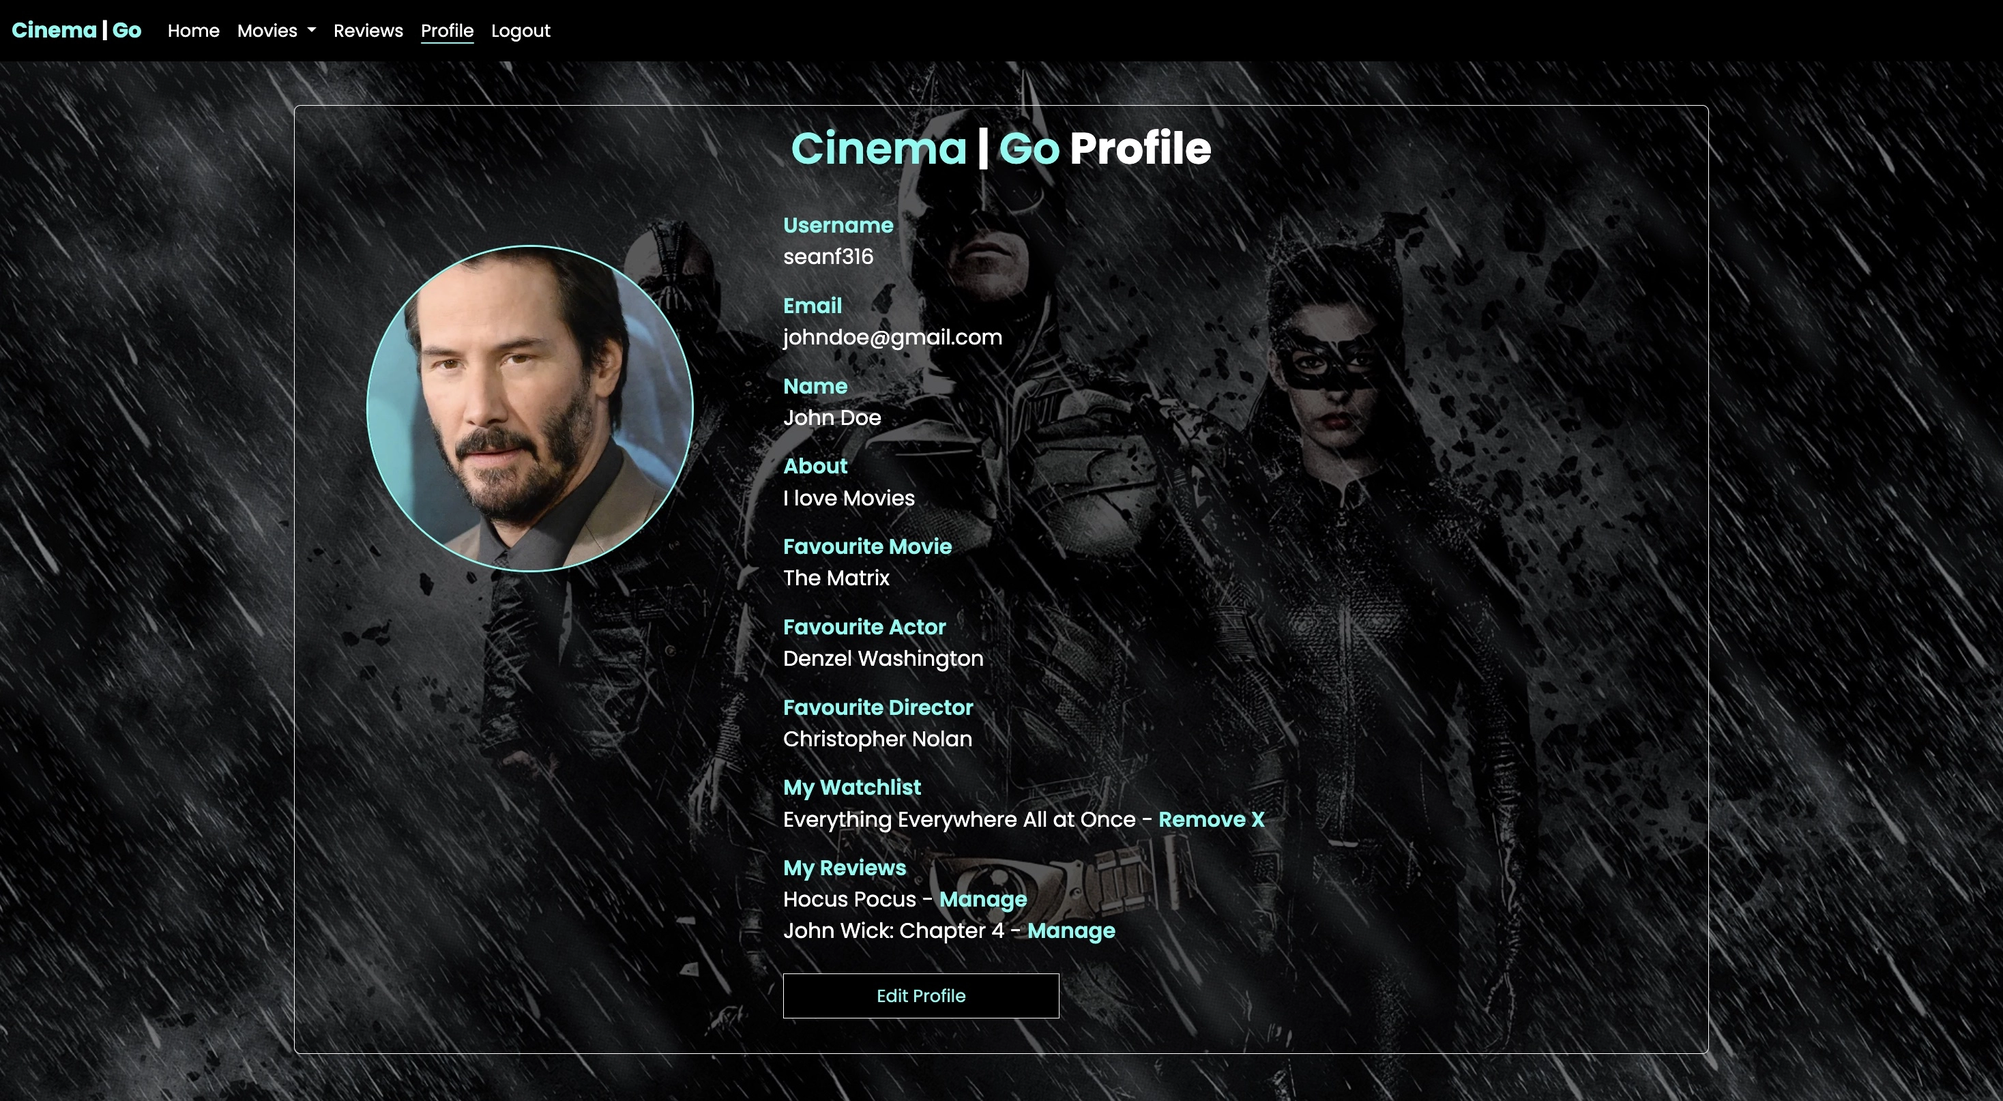
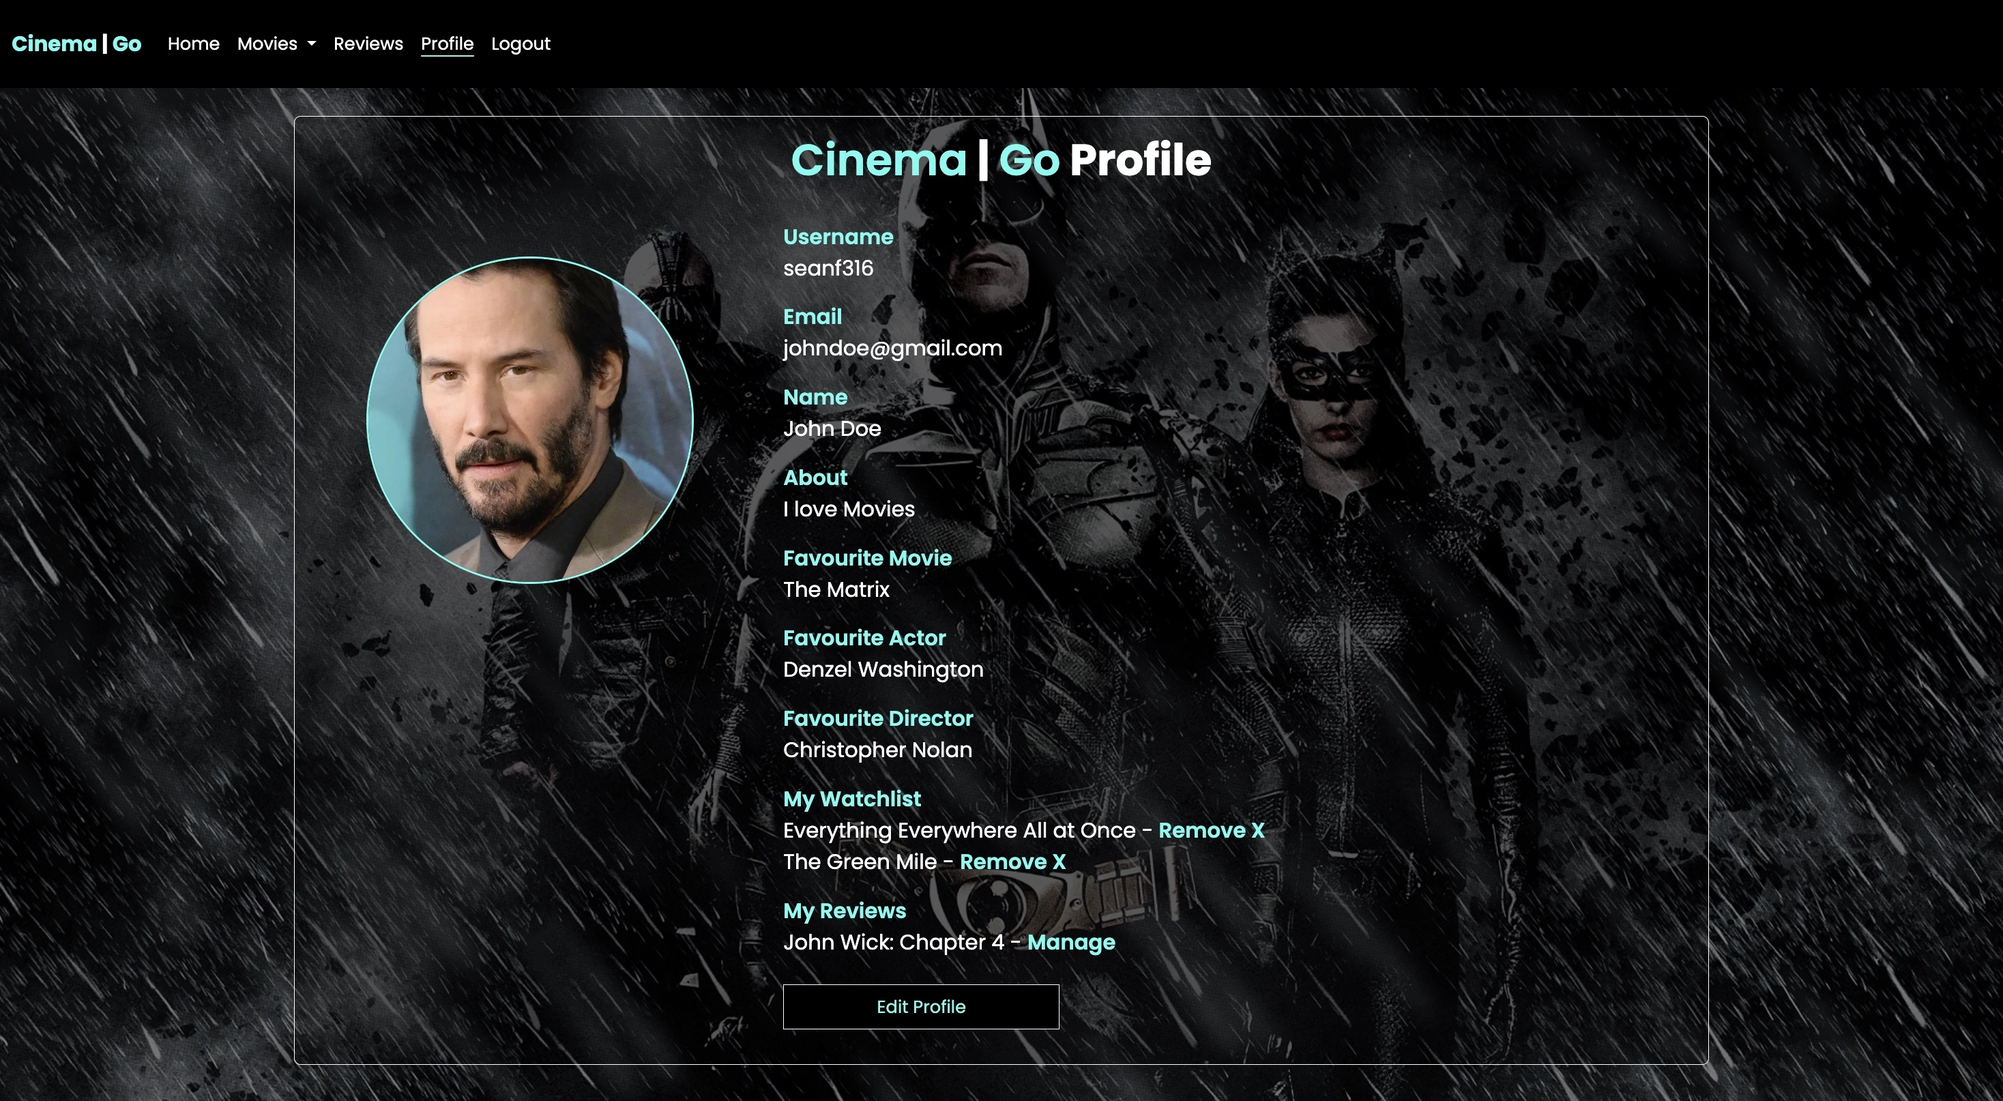
Feature complete and Surface Plane added

diff --git a/README.md b/README.md
@@ -284,14 +284,14 @@ Entity relationship diagram was created using [DBeaver](https://dbeaver.io/) and
 
 Views were secured where needed using the Django decorator @login_required. Access to the views using the @login_decorator can only be accessed by registered users. This means that if a user tries to access a view that is decorated with @login_required, but they are not currently logged in, they will be redirected to the login page instead.
 
-Environment variables were stored in an env.py for local development for security purposes to ensure no secret keys, api keys or sensitive information was added the the repository. In production, these variables were added to the heroku config vars within the project.
+Environment variables were stored in an env.py for local development for security purposes to ensure no secret keys, API keys, or sensitive information was added to the repository. In production, these variables were added to the Heroku config vars within the project.
 
 ## **The Scope Plane**
 
-* Responsive Design - Site should be fully functional on all devices from 320px up
+* Responsive Design - The site should be fully functional on all devices from 320px up
 * Hamburger menu for mobile devices
-* Ability to perform CRUD functionality on Profile, Reviews and Comments
-* Restricted role based features such as Reviewing/Commenting, viewing Movie Details and editing Profile
+* Ability to perform CRUD functionality on Profiles, Reviews, and Comments
+* Restricted role-based features such as Reviewing/Commenting, viewing Movie Details, and editing Profile
 * Home page describing the site and links to features for registered users
 
 ## **The Structure Plane**
@@ -301,15 +301,13 @@ Environment variables were stored in an env.py for local development for securit
 As a User I would like to view the site on my different devices so that I can view the site on the go
 `
 
-Implementation:
-
 **Navbar**
 
 `
 As a User I want to see a clear way of navigating the site so that I can find the information relative to my needs
 `
 
-The Navbar contains links for Home, a Movies dropdown containing Search/Trending/TopRated, Reviews, Profile and has allauth options.
+The Navbar contains links for Home, a Movies dropdown containing Search/Trending/TopRated, Reviews, Profile, and allauth options.
 
 The following navigation items are available on all pages:
   * Home -> index.html - Visible to all
@@ -336,13 +334,13 @@ The navigation menu is displayed on all pages and drops down into a hamburger me
 As a User I want to be able to get in touch with the Developer so that I can enquire about issues/suggestions I may have
 `
 
-The footer is placed at the bottom of the page. It social media links displayed with icons provided by Font Awesome. There is also a small portion of text for the Copyright/Disclaimer. This is where the user can click on a social media link and reach out to the developer for news and updates. A link to the developer's Github repository is provided and displayed using the Font Awesone Github icon. These icons have aria-labels added to ensure users with assistive screen reading technology know what the purpose of the links are for. They also open in new tabs as they lead users away from the site.
+The footer is placed at the bottom of the page. The social media links are displayed with icons provided by Font Awesome. There is also a small portion of text for the Copyright/Disclaimer. This is where the user can click on a social media link and reach out to the developer for news and updates. A link to the developer's Github repository is provided and displayed using the Font Awesome Github icon. These icons have aria labels added to ensure users with assistive screen reading technology know the purpose of the links. They also open new tabs as they lead users away from the site.
 
 ![Footer Desktop](/docs/readme_screenshots/desktop_footer.webp)
 
 **Homepage**
 
-There are two variations of the Home page that changes based off User login/registration. Users that have not signed up will be met with a welcome message and some information about the site. Details of features available to registered Users are shown and a Sign Up button is provided. The site Hero image (Lego Movie) is also provided.
+There are two variations of the Home page that change based on User login/registration. Users that have not signed up will be met with a welcome message and some information about the site. Details of features available to registered Users are shown and a Sign-Up button is provided. The site Hero image (Lego Movie) is also provided.
 
 Users that have registered and logged in will be met with a similar layout but this time there will be buttons linking the user to various Movie features to get started.
 
@@ -355,7 +353,7 @@ Users that have registered and logged in will be met with a similar layout but t
 As a User I want to have a section where I can search for a Movie so that I can easily find the Movie I want to review
 `
 
-The Movie Search page has a similar layout to the Home page as it includes the hero image but this time a search input is provided and and search button to execute the users Movie search. The search feature works in tandem with the TMDB and makes an API based of the query the user enters.
+The Movie Search page has a similar layout to the Home page as it includes the hero image but this time a search input is provided and a search button to execute the users' Movie search. The search feature works in tandem with the TMDB and makes an API based on the query the user enters.
 
 ![Search Desktop](/docs/readme_screenshots/desktop_search.webp)
 
@@ -365,9 +363,9 @@ The Movie Search page has a similar layout to the Home page as it includes the h
 As a Developer I can create the Movie Search Results template so that the User has a clear display of the results from their search
 `
 
-The Search Results page is displayed with the users Movie search query at the top of the page and for each Movie recieved in the results of the API call a card is generated containing the Movie backdrop image, the title of the movie and a "View Movie" button. If a backdrop image is not available for Movies in the results a default image has been provided as backup. I have set the results to display 12 movies per page, this was a design choice to have an even laylout across devices. Prev/Next buttons are displayed at the bottom of the page for pagination with the views.
+The Search Results page is displayed with the users' Movie search query at the top of the page and for each Movie received in the results of the API call a card is generated containing the Movie backdrop image, the title of the movie, and a "View Movie" button. If a backdrop image is not available for Movies in the results a default image has been provided as backup. I have set the results to display 12 movies per page, this was a design choice to have an even layout across devices. Prev/Next buttons are displayed at the bottom of the page for pagination with the views.
 
-In the occurrence were no results for the query are available a message will be displayed to the user along with a button linking the user back to the Movie Search page.
+In the occurrence where no results for the query are available a message will be displayed to the user along with a button linking the user back to the Movie Search page.
 
 ![Search Results Desktop 1](/docs/readme_screenshots/desktop_searchresults1.webp)
 ![Search Results Desktop 2](/docs/readme_screenshots/desktop_searchresults2.webp)
@@ -382,7 +380,7 @@ As a Developer I can build a page to display Trending Movies so that the User ca
 As a Developer I can build a page to display the Top Rated Movies so that the User can easily get access to the Top Rated Movies of all time
 `
 
-There are two Movie category pages provided for the user - Trending & Top Rated. They were not in the original scope of the project but during development I decided to implement as an extra feature for the user. Each page makes a call to the TMDB API and displays the most upto date results on the page to the user in the form of Movie posters. Each Movie poster is an anchor that can be clicked and will bring the user to the Movie Details page for that selected Movie. If a poster image is not available for Movies in the results a default image has been provided as backup. I have set the results to display 18 movies per page, this was a design choice to have an even laylout across devices. Prev/Next buttons are displayed at the bottom of the page for pagination with the views.
+There are two Movie category pages provided for the user - Trending & Top Rated. They were not in the original scope of the project but during development, I decided to implement them as an extra feature for the user. Each page makes a call to the TMDB API and displays the most up-to-date results on the page to the user in the form of Movie posters. Each Movie poster is an anchor that can be clicked and will bring the user to the Movie Details page for that selected Movie. If a poster image is not available for Movies in the results a default image has been provided as a backup. I have set the results to display 18 movies per page, this was a design choice to have an even layout across devices. Prev/Next buttons are displayed at the bottom of the page for pagination with the views.
 
 ![Trending Movies Desktop](/docs/readme_screenshots/desktop_trending.webp)
 ![Top Rated Movies Desktop](/docs/readme_screenshots/desktop_toprated.webp)
@@ -393,17 +391,159 @@ There are two Movie category pages provided for the user - Trending & Top Rated.
 As a User I want to view the Movie details from my search so that I can read the synopsis and check reviews
 `
 
-The Movie Details page contains all the details of the Movie selected by the user from the pages mentioned above. A horizontal card layout is used to display the following details from the API - Movie poster/backdrop, title, overview, director, runtime and release year. A rating is provided too if the Movie has been reviewed, it retrieves all the ratings from all user reviews for this specific movie and shows the average rating. Buttons for Trailer and IMDb are displayed if they are contained in the movie results from the API call. If a trailer does exist users can click the trailer button and a modal will appear conatining that movie trailer. If there is an IMDb id provided the button will bring the user to the movies IMDb page in a new tab.
+`
+As a User I would like the ability to add Movies to a watchlist so that so that I can have a list of movies that I can refer to when looking for something to watch
+`
 
-2 more buttons are displayed to the user "Add to Watchlist +" and "Review". Clicking the "Add to Watchlist +" will add the movie to the users watchlist which can be viewed on the users Profile page. Clicking the "Review" button will open the Review form page and allow the user to submit a review which again will be linked back to their Profile page where they can view all reviewed Movies. If a user has added the movie to their watchlist the button will change to "Remove from Watchlist -" and this can be toggled again to remove the Movie from the users watchlist. User can manage their watchlist from their Profile page. If the movie has been reviewed by the user the "Review" button will now display "Reviewed", users can manage (Edit/Delete) their reviews from the All Reviews page or can delete reviews directly from their Profile page.
+Registered users can access the Movie Details page.
+
+The Movie Details page contains all the details of the Movie selected by the user from the pages mentioned above. A horizontal card layout is used to display the following details from the API - Movie poster/backdrop, title, overview, director, runtime, and release year. A rating is provided too if the Movie has been reviewed, it retrieves all the ratings from all user reviews for this specific movie and shows the average rating. Buttons for Trailer and IMDb are displayed if they are contained in the movie results from the API call. If a trailer does exist users can click the trailer button and a modal will appear containing that movie trailer. If there is an IMDb id provided the button will bring the user to the movies' IMDb page in a new tab.
+
+2 more buttons are displayed to the user "Add to Watchlist +" and "Review". Clicking the "Add to Watchlist +" will add the movie to the user's watchlist which can be viewed on the user's Profile page. Clicking the "Review" button will open the Review form page and allow the user to submit a review which again will be linked back to their Profile page where they can view all reviewed Movies. If a user has added the movie to their watchlist the button will change to "Remove from Watchlist -" and this can be toggled again to remove the Movie from the user's watchlist. User can manage their watchlist from their Profile page. If the movie has been reviewed by the user the "Review" button will now display "Reviewed", users can manage (Edit/Delete) their reviews from the All Reviews page or can manage reviews directly from their Profile page.
 
 ![Movie Details](/docs/readme_screenshots/desktop_movie.webp)
 ![Movie Details Trailer](/docs/readme_screenshots/desktop_movietrailer.webp)
 
+**Reviews**
 
+`
+As a User I want the ability to review Movies so that I can share my thoughts of the Movie with family and friends
+`
 
+`
+As a User I would like the ability to edit my review so that I can fix and spelling or format issues
+`
 
+`
+As a User I would like the ability to delete my review so that I can manage my reviews and in the case of accidentally selecting the wrong Movie and reviewing it
+`
 
+Creating and viewing reviews are features only available to registered users.
+
+When the user clicks the Review button on the Movie Details page they will shown brought to the Review page that contains the Review form for the user to fill out. The page contains the backdrop image for that movie, the movie title, the reviewer's username, and the form itself. There are 2 inputs on the form "Review (Max 2500 Characters)" and "Rating (1-10)" with 2 buttons "Update" and "Delete". When the form is filled out correctly the user can submit their review, by submitting the review will be added to the user's review list and the review will be rendered on the Reviews page.
+
+The user can manage their review from the Reviews page or on their Profile page. They can edit their review from either location, if the user decides to delete their review a modal will pop up asking for the user to confirm the deletion. Once deleted Review will be removed from the Profile reviews list and the button on the Movie Details page will be returned to the "Review" state. Each review will also show a "Comment" button on the Review page to allow users to comment on reviews. 
+
+![Review 1](/docs/readme_screenshots/desktop_review.webp)
+![Review 2](/docs/readme_screenshots/desktop_reviews.webp)
+![Review 3](/docs/readme_screenshots/desktop_reviewdelete.webp)
+
+**Comment**
+
+`
+As a User I would like the ability to comment on Reviews so that so that I can participate in conversations with fellow reviewer's
+`
+
+Creating and viewing comments are features only available to registered users.
+
+On the Reviews page, users can comment on any review by clicking the "Comment" button. When the button is clicked users will be brought to the comment page that renders the comment form. The page contains the backdrop image for that movie, the movie title, the reviewer's username, and the form itself. There is 1 input on the comment form "Comment (Max 500 Characters)" and 1 button "Update". When the user has submitted their comment it will be applied to the Review card on the Reviews page. Here the user will see their comment, Edit & Delete icons, the date of the comment, and the commenter's username. The user can edit or delete their comment by clicking either icon.
+
+![Comment 1](/docs/readme_screenshots/desktop_comment.webp)
+![Comment 2](/docs/readme_screenshots/desktop_commentreview.webp)
+
+**Profile**
+
+`
+As a User I would like access to my Profile so that I can upload an image or alter my details where needed
+`
+
+Profile features are only available to registered users.
+
+When a user signs up to the site a Profile will automatically be created for them. They can access their Profile page from the Profile Navbar link. On the Profile page, the user can add/change information like their username, first name, surname, about, and more. Users can also upload their own Profile image and if they do not want to a default image is provided. Users will also be able to manage their Movie Watchlist and Reviews list.
+
+![Profile 1](/docs/readme_screenshots/desktop_profile.webp)
+![Profile 2](/docs/readme_screenshots/desktop_profileedit1.webp)
+![Profile 3](/docs/readme_screenshots/desktop_profileedit2.webp)
+
+**Toasts**
+
+Custom toasts were implemented throughout the site. This will provide feedback to the user when they carry out an action on the site. Below are are few toast references:
+
+![Toast 1](/docs/readme_screenshots/desktop_toast.webp)
+![Toast 2](/docs/readme_screenshots/desktop_toast1.webp)
+![Toast 3](/docs/readme_screenshots/desktop_toast2.webp)
+![Toast 4](/docs/readme_screenshots/desktop_toast3.webp)
+![Toast 5](/docs/readme_screenshots/desktop_toast4.webp)
+![Toast 6](/docs/readme_screenshots/desktop_toast5.webp)
+![Toast 7](/docs/readme_screenshots/desktop_toast6.webp)
+![Toast 8](/docs/readme_screenshots/desktop_toast7.webp)
+
+**Error Pages**
+
+**404 Page**
+
+`
+As a Developer I can implement a 404 error page so that I can alert users when they have accessed a page that doesn't exist
+`
+
+A 404 page has been implemented and will display if a user navigates to a broken link.
+
+The 404 page will allow the user to easily navigate back to the main website if they direct to a broken link / missing page, without the need for the browser's back button.
+
+![Error 404](/docs/readme_screenshots/desktop_404.webp)
+
+**403 & 403_csrf Pages**
+
+`
+As a Developer I can implement a 403 error page to redirect unauthorised users so that I can secure my views
+`
+
+A 403 error page has been implemented to provide feedback to the user when they try to access unauthorized content. Users will be directed to this page if they alter the URLs and attempt to edit, delete, or access pages that are restricted.
+A 403_csrf error page has been implemented to provide feedback to the user when there is an issue with csrf verification. 
+
+![Error 403](/docs/readme_screenshots/desktop_403.webp)
+![Error 403_csrf](/docs/readme_screenshots/desktop_403_csrf.webp)
+
+**500 Page**
+
+`
+As a Developer I can implement a 500 error page so that I can alert users when an internal server error occurs
+`
+
+A 500 error page has been displayed to alert users when an internal server error occurs. The message relays to users that the problem is on our end, not theirs.
+
+![Error 500](/docs/readme_screenshots/desktop_500.webp)
+
+**Favicon**
+
+A favicon has been added the website to enable users to easily locate the website in the browser when multiple tabs are open.
+
+### **Future Features**
+
+**More Movie Categories**
+
+In the future I would like to spend more time working with the TMDB API to add further Movie categories for the user like Upcoming movies, Now Playing, etc
+
+**Movie Details Enhancements**
+
+I would like to enhance the Movie Details information in the future to branch off into a Cast/Crew page that would display all the actors involved in the Movie. Within the Cast information, a user could click on an Actor's image and be shown other movies that they have appeared in.
+
+**Latest Trailers**
+
+A page dedicated to just Trailers for new and upcoming movies that the user can view. The thinking would be that it would update weekly and show the latest trailers at the top of the page.
+
+**Genre Page**
+
+A page where a user would have a dropdown containing all the different Movie genres i.e. Action, Thriller, Comedy, etc
+The user would select one and a call would be made to the API to retrieve the latest Movies in the genre chosen.
+
+## **The Surface Plane**
+
+### **Design**
+
+**Colour Scheme**
+
+I opted for a very minimalistic aesthetic and the below 4 colours were chosen. I went for a darker theme with an aqua blue to add some contrast and vibrance to the site. The colours have been implemented across the site and are included in the buttons/links and their hover effects.
+
+![Coolors](/docs/readme_screenshots/coolors.webp)
+
+**Typography**
+
+The Poppins font was used throughout the website. This font is from google fonts and was imported into the style sheet.
+
+**Imagery**
+
+The hero image was taken from TopPng and was free for personal use. The image used as the Profile background was taken from wallpaperflare.com
 
 ## **Libraries**
 For this project I used the following libraries:
